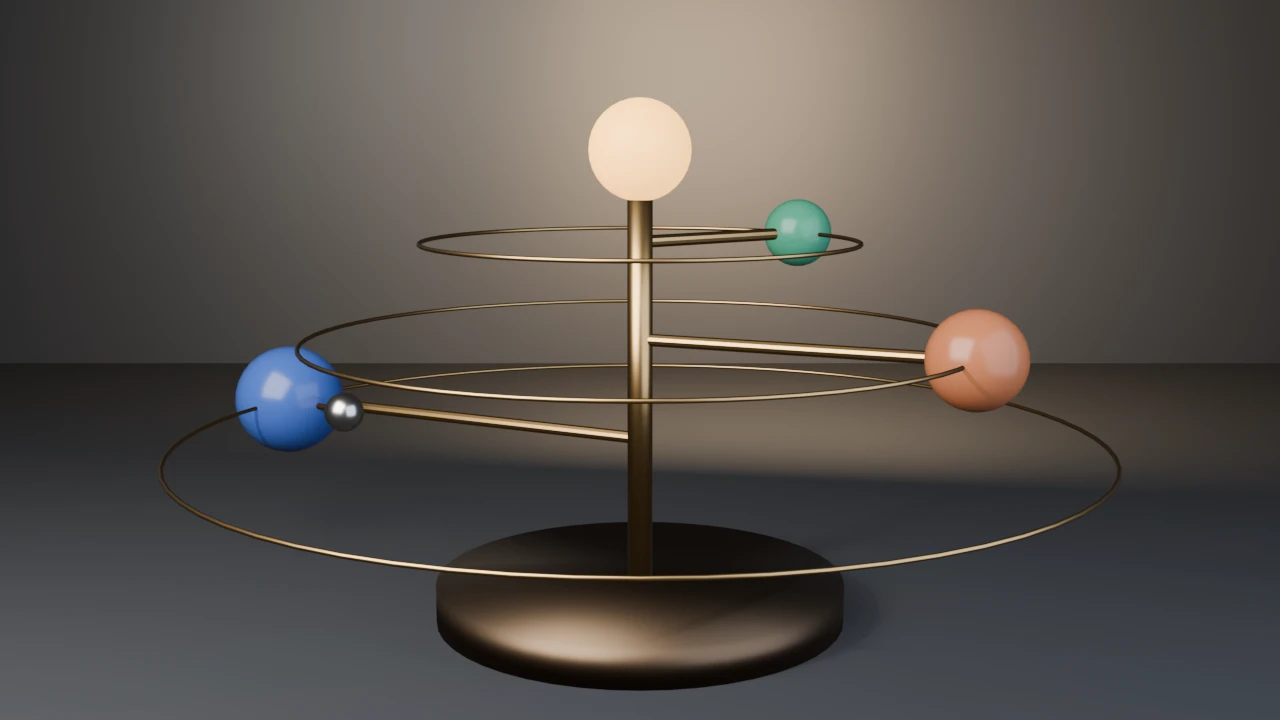
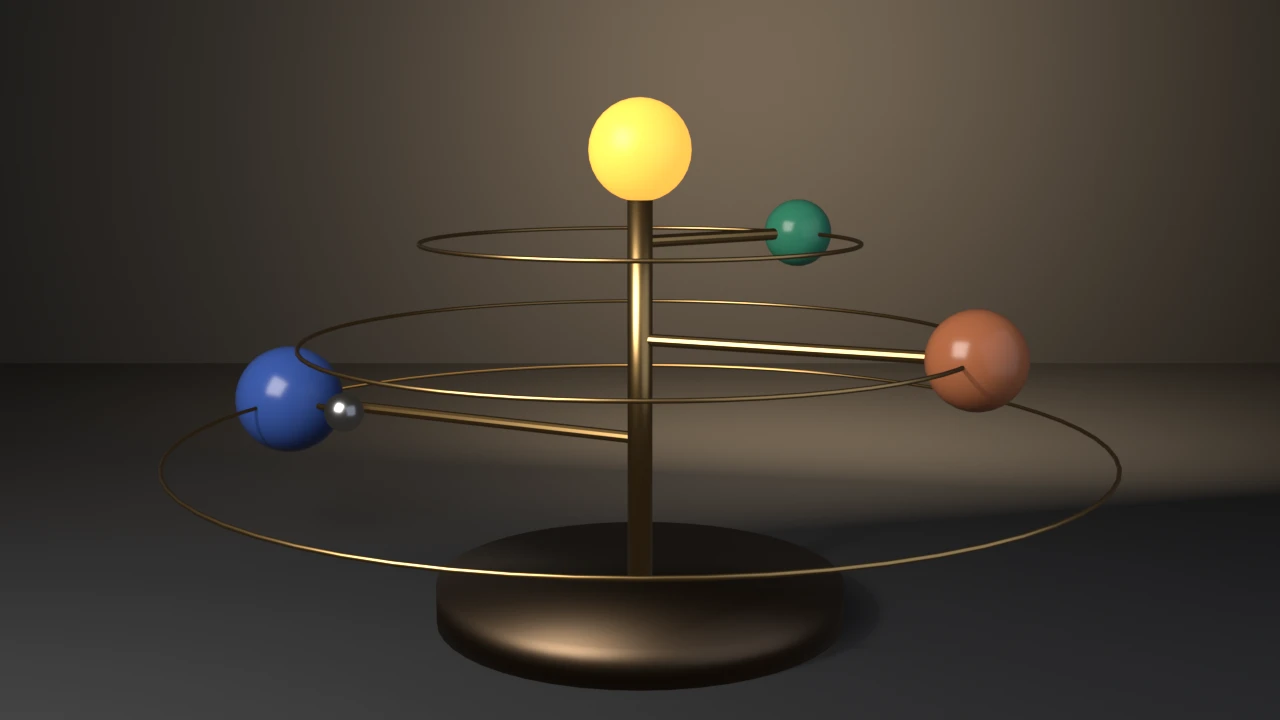
fix: parent-inverse-orrery presentation, Standard view, house light, framing gate
Render path only: Standard view transform (AgX turned the sun into a peach
bulb), house lighting that brings mean luma from 0.33 into the calibration
band, a 60 m stage, and a framing gate the render never had. Contract and
exit codes unchanged on 4.5.11, 5.1.2 and 5.2.1. Also regenerates the index.

diff --git a/docs/gallery/parent-inverse-orrery/index.html b/docs/gallery/parent-inverse-orrery/index.html
@@ -16,13 +16,13 @@
   <meta property="og:image" content="https://tmhsdigital.github.io/Blender-Developer-Tools/gallery/assets/parent-inverse-orrery-hero.webp" />
   <meta property="og:image:width" content="1280" />
   <meta property="og:image:height" content="720" />
-  <meta property="og:image:alt" content="A brass orrery: a pale central sun on a stand with three planets on arms and orbit rings." />
+  <meta property="og:image:alt" content="A brass orrery: a glowing yellow sun on a stand with blue, green and orange planets on arms, orbit rings and a silver moon." />
   <meta property="og:site_name" content="Blender Developer Tools" />
   <meta name="twitter:card" content="summary_large_image" />
   <meta name="twitter:title" content="parent-inverse-orrery — Examples — Blender Developer Tools" />
   <meta name="twitter:description" content="Data-API parenting for a brass orrery — the keep-world idiom (child.parent = pivot; child.matrix_parent_inverse = pivot.matrix_world.inverted()) carrying arms, planets, and a two-level moon through spinning pivots." />
   <meta name="twitter:image" content="https://tmhsdigital.github.io/Blender-Developer-Tools/gallery/assets/parent-inverse-orrery-hero.webp" />
-  <meta name="twitter:image:alt" content="A brass orrery: a pale central sun on a stand with three planets on arms and orbit rings." />
+  <meta name="twitter:image:alt" content="A brass orrery: a glowing yellow sun on a stand with blue, green and orange planets on arms, orbit rings and a silver moon." />
   <style>
     /* fonts are deployed by the landing build (docs/fonts/) */
     @font-face { font-family: 'Barlow Condensed'; font-weight: 600; font-display: swap;
@@ -268,8 +268,8 @@
     <p>Data-API parenting for a brass orrery — the keep-world idiom (child.parent = pivot; child.matrix_parent_inverse = pivot.matrix_world.inverted()) carrying arms, planets, and a two-level moon through spinning pivots.</p>
   </header>
   <main id="main">
-    <button class="detail-hero" id="heroZoom" type="button" aria-label="View full size: A brass orrery: a pale central sun on a stand with three planets on arms and orbit rings.">
-      <img src="../assets/parent-inverse-orrery-hero.webp" alt="A brass orrery: a pale central sun on a stand with three planets on arms and orbit rings." width="1280" height="720" />
+    <button class="detail-hero" id="heroZoom" type="button" aria-label="View full size: A brass orrery: a glowing yellow sun on a stand with blue, green and orange planets on arms, orbit rings and a silver moon.">
+      <img src="../assets/parent-inverse-orrery-hero.webp" alt="A brass orrery: a glowing yellow sun on a stand with blue, green and orange planets on arms, orbit rings and a silver moon." width="1280" height="720" />
     </button>
     <p class="zoom-hint">Rendered headless by the example itself — click to zoom.</p>
     <div class="callout"><span class="tag">witnesses</span> Bare `.parent =` really does teleport the child; the idiom restores world position exactly; matrix_world stays stale until view_layer.update(); every orbit lands on its closed form.</div>
@@ -292,9 +292,11 @@ blender --background --python parent_inverse_orrery.py -- --skip-mpi
 # Also render a still (EEVEE on a GPU host; use --engine cycles on GPU-less hosts):
 blender --background --python parent_inverse_orrery.py -- --output orrery.png
 blender --background --python parent_inverse_orrery.py -- --output orrery.png --engine cycles</code></pre>
+<h2>Staging</h2>
+<p>Render path only; the rig the checks measure is untouched. The still uses the <code>Standard</code> view transform: under the default AgX the orange sun clipped to a peach-white bulb and read as a lamp. Lighting follows the house recipe (shaped key, faint fill, rim, warm wedge on the back wall) on the dark matte studio floor; the old rig (key 1500 W, fill 500 W, a glossy grey floor) lit the frame to mean luma 0.33, above the gallery&#x27;s calibration band. The render path gates framing through <code>gallery_framing.check_framing</code> (exit 10), which it never did before.</p>
 <h2>Exit codes</h2>
-<p>Per-script sequential checks. <code>9</code> is a valid check code; there is no rule against it.</p>
-<div class="table-wrap"><table><thead><tr><th scope="col">Code</th><th scope="col">Meaning</th></tr></thead><tbody><tr><td>0</td><td>Success</td></tr><tr><td>1</td><td>Uncaught exception (FATAL wrapper)</td></tr><tr><td>2</td><td>argparse / usage</td></tr><tr><td>3</td><td>Bare parenting did not jump</td></tr><tr><td>4</td><td>Keep-world idiom off</td></tr><tr><td>5</td><td>Stale <code>matrix_world</code> contract broken</td></tr><tr><td>6</td><td>Planet off closed-form orbit (<code>--skip-mpi</code> lands here)</td></tr><tr><td>7</td><td>Moon off closed-form orbit</td></tr><tr><td>8</td><td><code>--output</code> produced no file</td></tr></tbody></table></div>
+<p>Per-script sequential checks. <code>9</code> is a valid check code; there is no rule against it. <code>10</code> is the shared framing helper.</p>
+<div class="table-wrap"><table><thead><tr><th scope="col">Code</th><th scope="col">Meaning</th></tr></thead><tbody><tr><td>0</td><td>Success</td></tr><tr><td>1</td><td>Uncaught exception (FATAL wrapper)</td></tr><tr><td>2</td><td>argparse / usage</td></tr><tr><td>3</td><td>Bare parenting did not jump</td></tr><tr><td>4</td><td>Keep-world idiom off</td></tr><tr><td>5</td><td>Stale <code>matrix_world</code> contract broken</td></tr><tr><td>6</td><td>Planet off closed-form orbit (<code>--skip-mpi</code> lands here)</td></tr><tr><td>7</td><td>Moon off closed-form orbit</td></tr><tr><td>8</td><td><code>--output</code> produced no file</td></tr><tr><td>10</td><td>Gallery framing violation (render path only)</td></tr></tbody></table></div>
 <p>The <code>blender-smoke</code> workflow runs the check on Blender 5.2 LTS and 4.5 LTS (5.1 on the weekly cron, the <code>needs-5.1</code> PR label, or manual dispatch). Smoke does not pass <code>--output</code> or <code>--skip-mpi</code>.</p>
     </section>
     <section class="detail-section src">
@@ -333,6 +335,11 @@ check. Pass --output to also render a still:
 &quot;&quot;&quot;</span>
 <span class="k">import</span> bpy, bmesh, sys, os, math, argparse
 <span class="k">from</span> mathutils <span class="k">import</span> Vector, Matrix
+
+<span class="c"># Shared Layer 1 framing measurement (render path only) — see gallery_framing.py</span>
+sys.path.insert(<span class="n">0</span>, os.path.join(os.path.dirname(os.path.abspath(__file__)), os.pardir))
+sys.dont_write_bytecode = <span class="k">True</span>  <span class="c"># keep examples/__pycache__ out of the repo tree</span>
+<span class="k">import</span> gallery_framing
 
 <span class="c"># (name, orbit radius, arm height, orbit angle deg, sphere radius, color RGBA)</span>
 PLANETS = [
@@ -550,7 +557,9 @@ EPS = <span class="n">1e-5</span>
     scene = bpy.context.scene
     brass = principled(<span class="s">&quot;Brass&quot;</span>, (<span class="n">0.62</span>, <span class="n">0.40</span>, <span class="n">0.16</span>, <span class="n">1.0</span>), <span class="n">1.0</span>, <span class="n">0.32</span>)
     dark_bronze = principled(<span class="s">&quot;Bronze&quot;</span>, (<span class="n">0.16</span>, <span class="n">0.11</span>, <span class="n">0.07</span>, <span class="n">1.0</span>), <span class="n">1.0</span>, <span class="n">0.45</span>)
-    sun_mat = principled(<span class="s">&quot;SunGlow&quot;</span>, (<span class="n">1.0</span>, <span class="n">0.48</span>, <span class="n">0.10</span>, <span class="n">1.0</span>), <span class="n">0.0</span>, <span class="n">0.4</span>, emission=<span class="n">3.2</span>)
+    <span class="c"># At emission 3.2 the sun clipped to a peach-white bulb and read as a</span>
+    <span class="c"># lamp; a lower strength keeps it an orange star against the brass.</span>
+    sun_mat = principled(<span class="s">&quot;SunGlow&quot;</span>, (<span class="n">1.0</span>, <span class="n">0.42</span>, <span class="n">0.06</span>, <span class="n">1.0</span>), <span class="n">0.0</span>, <span class="n">0.4</span>, emission=<span class="n">1.3</span>)
     moon_mat = principled(<span class="s">&quot;MoonSilver&quot;</span>, (<span class="n">0.82</span>, <span class="n">0.84</span>, <span class="n">0.88</span>, <span class="n">1.0</span>), <span class="n">1.0</span>, <span class="n">0.25</span>)
 
     rig[<span class="s">&quot;sun&quot;</span>].data.materials.append(sun_mat)
@@ -572,11 +581,11 @@ EPS = <span class="n">1e-5</span>
     floor_me = bpy.data.meshes.new(<span class="s">&quot;Floor&quot;</span>)
     bm = bmesh.new()
     <span class="k">try</span>:
-        bmesh.ops.create_grid(bm, x_segments=<span class="n">1</span>, y_segments=<span class="n">1</span>, size=<span class="n">30.0</span>)
+        bmesh.ops.create_grid(bm, x_segments=<span class="n">1</span>, y_segments=<span class="n">1</span>, size=<span class="n">60.0</span>)
         bm.to_mesh(floor_me)
     <span class="k">finally</span>:
         bm.free()
-    fmat = principled(<span class="s">&quot;Studio&quot;</span>, (<span class="n">0.045</span>, <span class="n">0.05</span>, <span class="n">0.06</span>, <span class="n">1.0</span>), <span class="n">0.0</span>, <span class="n">0.42</span>)
+    fmat = principled(<span class="s">&quot;Studio&quot;</span>, (<span class="n">0.03</span>, <span class="n">0.032</span>, <span class="n">0.037</span>, <span class="n">1.0</span>), <span class="n">0.0</span>, <span class="n">0.7</span>)
     floor_me.materials.append(fmat)
     floor = bpy.data.objects.new(<span class="s">&quot;Floor&quot;</span>, floor_me)
     scene.collection.objects.link(floor)
@@ -600,9 +609,13 @@ EPS = <span class="n">1e-5</span>
         ob.rotation_euler = tuple(math.radians(a) <span class="k">for</span> a <span class="k">in</span> rot)
         scene.collection.objects.link(ob)
 
-    light(<span class="s">&quot;Key&quot;</span>, (-<span class="n">4.0</span>, -<span class="n">4.5</span>, <span class="n">5.0</span>), <span class="n">1500.0</span>, <span class="n">6.5</span>, (<span class="n">1.0</span>, <span class="n">0.94</span>, <span class="n">0.86</span>), (<span class="n">46</span>, <span class="n">0</span>, -<span class="n">40</span>))
-    light(<span class="s">&quot;Fill&quot;</span>, (<span class="n">4.8</span>, -<span class="n">3.8</span>, <span class="n">2.6</span>), <span class="n">500.0</span>, <span class="n">8.0</span>, (<span class="n">0.75</span>, <span class="n">0.83</span>, <span class="n">1.0</span>), (<span class="n">62</span>, <span class="n">0</span>, <span class="n">48</span>))
-    light(<span class="s">&quot;Rim&quot;</span>, (<span class="n">1.0</span>, <span class="n">4.5</span>, <span class="n">3.4</span>), <span class="n">900.0</span>, <span class="n">4.0</span>, (<span class="n">1.0</span>, <span class="n">0.68</span>, <span class="n">0.38</span>), (-<span class="n">70</span>, <span class="n">0</span>, <span class="n">170</span>))
+    <span class="c"># House recipe (docs/VISUAL-STYLE.md): shaped warm key, faint cool fill,</span>
+    <span class="c"># rim, warm wedge on the back wall. The old rig (key 1500, fill 500) lit</span>
+    <span class="c"># the stage to mean luma 0.33, above the calibration set&#x27;s band.</span>
+    light(<span class="s">&quot;Key&quot;</span>, (-<span class="n">4.0</span>, -<span class="n">4.5</span>, <span class="n">5.0</span>), <span class="n">620.0</span>, <span class="n">4.5</span>, (<span class="n">1.0</span>, <span class="n">0.94</span>, <span class="n">0.86</span>), (<span class="n">46</span>, <span class="n">0</span>, -<span class="n">40</span>))
+    light(<span class="s">&quot;Fill&quot;</span>, (<span class="n">4.8</span>, -<span class="n">3.8</span>, <span class="n">2.6</span>), <span class="n">120.0</span>, <span class="n">8.0</span>, (<span class="n">0.75</span>, <span class="n">0.83</span>, <span class="n">1.0</span>), (<span class="n">62</span>, <span class="n">0</span>, <span class="n">48</span>))
+    light(<span class="s">&quot;Rim&quot;</span>, (<span class="n">1.0</span>, <span class="n">4.5</span>, <span class="n">3.4</span>), <span class="n">420.0</span>, <span class="n">4.0</span>, (<span class="n">1.0</span>, <span class="n">0.68</span>, <span class="n">0.38</span>), (-<span class="n">70</span>, <span class="n">0</span>, <span class="n">170</span>))
+    light(<span class="s">&quot;Wedge&quot;</span>, (<span class="n">2.5</span>, <span class="n">3.5</span>, <span class="n">4.2</span>), <span class="n">420.0</span>, <span class="n">5.5</span>, (<span class="n">1.0</span>, <span class="n">0.76</span>, <span class="n">0.5</span>), (-<span class="n">72</span>, <span class="n">0</span>, <span class="n">195</span>))
 
     cam_data = bpy.data.cameras.new(<span class="s">&quot;Cam&quot;</span>)
     cam_data.lens = <span class="n">40.0</span>
@@ -624,8 +637,20 @@ EPS = <span class="n">1e-5</span>
     scene.render.resolution_y = <span class="n">720</span>
     scene.render.image_settings.file_format = <span class="s">&#x27;PNG&#x27;</span>
     scene.render.filepath = path
+    <span class="c"># AgX washes the orange sun and the planet colours toward pastel</span>
+    <span class="c"># (docs/VISUAL-STYLE.md); the sun read as a peach bulb under it.</span>
+    scene.view_settings.view_transform = <span class="s">&#x27;Standard&#x27;</span>
+    <span class="c"># Layer 1 framing gate (silhouette matte) — exit 10 on violation, before</span>
+    <span class="c"># the beauty render so a defective composition ships no artifact.</span>
+    orrery = [o <span class="k">for</span> o <span class="k">in</span> scene.objects
+              <span class="k">if</span> o.type <span class="k">in</span> {<span class="s">&#x27;MESH&#x27;</span>, <span class="s">&#x27;CURVE&#x27;</span>} <span class="k">and</span> o.name <span class="k">not</span> <span class="k">in</span> {<span class="s">&quot;Floor&quot;</span>, <span class="s">&quot;Wall&quot;</span>}]
+    fcode = gallery_framing.check_framing(
+        scene, cam, hero=orrery, elements=orrery, stage=[floor, wall],
+    )
+    <span class="k">if</span> fcode:
+        <span class="k">return</span> fcode
     bpy.ops.render.render(write_still=<span class="k">True</span>)
-    <span class="k">return</span> os.path.exists(path) <span class="k">and</span> os.path.getsize(path) &gt; <span class="n">0</span>
+    <span class="k">return</span> <span class="n">0</span> <span class="k">if</span> os.path.exists(path) <span class="k">and</span> os.path.getsize(path) &gt; <span class="n">0</span> <span class="k">else</span> <span class="n">8</span>
 
 
 <span class="k">def</span> main():
@@ -644,9 +669,11 @@ EPS = <span class="n">1e-5</span>
         <span class="k">return</span> code
 
     <span class="k">if</span> args.output:
-        <span class="k">if</span> <span class="k">not</span> render_still(rig, os.path.abspath(args.output), args.engine):
+        rcode = render_still(rig, os.path.abspath(args.output), args.engine)
+        <span class="k">if</span> rcode == <span class="n">8</span>:
             print(<span class="s">&quot;ERROR: render produced no file&quot;</span>, file=sys.stderr)
-            <span class="k">return</span> <span class="n">8</span>
+        <span class="k">if</span> rcode:
+            <span class="k">return</span> rcode
         print(<span class="s">f&quot;</span><span class="s">rendered still </span>{args.output}<span class="s">&quot;</span>)
 
     print(<span class="s">&quot;parent-inverse-orrery OK&quot;</span>)
@@ -663,7 +690,7 @@ EPS = <span class="n">1e-5</span>
   </main>
   <dialog class="lightbox" id="lightbox" aria-label="Full-size render">
     <button class="lightbox-close" type="button" autofocus>Close</button>
-    <img src="../assets/parent-inverse-orrery-hero.webp" alt="A brass orrery: a pale central sun on a stand with three planets on arms and orbit rings." />
+    <img src="../assets/parent-inverse-orrery-hero.webp" alt="A brass orrery: a glowing yellow sun on a stand with blue, green and orange planets on arms, orbit rings and a silver moon." />
   </dialog>
   <footer>
     <div class="statusbar">

diff --git a/docs/gallery/index.html b/docs/gallery/index.html
@@ -519,7 +519,7 @@
       </article>
       <article class="card" data-tags="objects transforms">
         <a class="card-media" href="parent-inverse-orrery/" tabindex="-1" aria-hidden="true">
-          <img src="assets/parent-inverse-orrery-hero.webp" alt="A brass orrery: a pale central sun on a stand with three planets on arms and orbit rings." loading="lazy" decoding="async" />
+          <img src="assets/parent-inverse-orrery-hero.webp" alt="A brass orrery: a glowing yellow sun on a stand with blue, green and orange planets on arms, orbit rings and a silver moon." loading="lazy" decoding="async" />
         </a>
         <div class="card-body">
           <h2><a href="parent-inverse-orrery/">parent-inverse-orrery</a></h2>
@@ -959,12 +959,12 @@
       </article>
       <article class="card" data-tags="mesh export showcase">
         <a class="card-media" href="street-lantern/" tabindex="-1" aria-hidden="true">
-          <img src="assets/street-lantern-hero.webp" alt="A black iron street lamp post with an arm holding a hanging lantern with glowing panes." loading="lazy" decoding="async" />
+          <img src="assets/street-lantern-hero.webp" alt="A black iron street lamp post with aged brass collars and a knee brace under the arm, holding a hanging lantern with glowing panes." loading="lazy" decoding="async" />
         </a>
         <div class="card-body">
           <h2><a href="street-lantern/">street-lantern</a></h2>
           <p class="teaches">A procedural hanging street lantern through UVs, bake, LOD, collider, and Unity glTF, asserting recomputed budgets rather than an API contract.</p>
-          <p class="witnesses"><span class="tag">witnesses</span> Recomputed: 3338 tris, three materials with 1530 metal, 24 glass and 209 brass faces, UVs in 0..1 with zero AABB overlap, outer AABB 0.300×0.786×1.287 m, zmin 0, hygiene 0, brace BVH gap 0, hanger-roof gap −1 mm, post 0.100×1.120 m plumb 0, LOD ratios in band (5.2 COLLAPSE 2 tris leaner on LOD2), convex collider 78 tris, non-empty glTF. --skip-decimate exits 9; --stray-vert 15; --lift-z 16; --float-brace 17; --sink-arm 18; --rake-post 19.</p>
+          <p class="witnesses"><span class="tag">witnesses</span> Recomputed: 3338 tris, three materials with 1530 metal, 24 glass and 209 brass faces, UVs in 0..1 with zero AABB overlap, outer AABB 0.300×0.786×1.287 m, zmin 0, hygiene 0, brace BVH gap 0, brace ends 13 mm into the post and the arm, hanger-roof gap −1 mm, post 0.100×1.120 m plumb 0, LOD ratios in band (5.2 COLLAPSE 2 tris leaner on LOD2), convex collider 78 tris, non-empty glTF. --skip-decimate exits 9; --stray-vert 15; --lift-z 16; --float-brace 17; --sink-arm 18; --rake-post 19; --shallow-brace 20.</p>
           <a class="card-link" href="street-lantern/">View showcase piece<span class="sr-only"> street-lantern</span> <span aria-hidden="true">&rarr;</span></a>
         </div>
       </article>
@@ -1003,12 +1003,12 @@
       </article>
       <article class="card" data-tags="mesh export showcase">
         <a class="card-media" href="watchtower/" tabindex="-1" aria-hidden="true">
-          <img src="assets/watchtower-hero.webp" alt="A timber watchtower on braced legs with a ladder, railed platform and a pale shingled pyramid roof." loading="lazy" decoding="async" />
+          <img src="assets/watchtower-hero.webp" alt="A grained timber watchtower on braced legs with a ladder, a railed platform on deck girts, rusted iron collars and a shingled pyramid roof." loading="lazy" decoding="async" />
         </a>
         <div class="card-body">
           <h2><a href="watchtower/">watchtower</a></h2>
           <p class="teaches">A procedural timber watchtower through UVs, bake, LOD, collider, and Unity glTF, asserting recomputed budgets rather than an API contract.</p>
-          <p class="witnesses"><span class="tag">witnesses</span> Recomputed: 6408 tris, three materials with 300 metal and 126 roof faces, UVs in 0..1 with zero AABB overlap, outer AABB 1.594×1.594×2.973 m, grounded zmin, 4 iron shoes, rail engage 18 mm, collar standoff 2 mm, post plumb 0, LOD ratios in band (5.2 COLLAPSE leaner on LOD2), convex collider 150 tris, non-empty glTF. Hygiene all zero. --skip-decimate exits 9; --stray-vert 15; --lift-z/--short-shoes 16; --short-rails 17; --float-band 18; --rake-posts 19.</p>
+          <p class="witnesses"><span class="tag">witnesses</span> Recomputed: 6840 tris, three materials with 300 metal and 126 roof faces, UVs in 0..1 with zero AABB overlap, outer AABB 1.594×1.594×2.973 m, grounded zmin, 4 iron shoes, rail engage 18 mm, all four side rails tenoned at both ends, both joists bearing 31 mm into deck girts, collar standoff 2 mm, post plumb 0, LOD ratios in band (5.2 COLLAPSE leaner on LOD2), convex collider 150 tris, non-empty glTF. Hygiene all zero. --skip-decimate exits 9; --stray-vert 15; --lift-z/--short-shoes 16; --short-rails/--open-sides/--short-joists 17; --float-band 18; --rake-posts 19.</p>
           <a class="card-link" href="watchtower/">View showcase piece<span class="sr-only"> watchtower</span> <span aria-hidden="true">&rarr;</span></a>
         </div>
       </article>

diff --git a/examples/parent-inverse-orrery/parent_inverse_orrery.py b/examples/parent-inverse-orrery/parent_inverse_orrery.py
@@ -29,6 +29,11 @@ check. Pass --output to also render a still:
 import bpy, bmesh, sys, os, math, argparse
 from mathutils import Vector, Matrix
 
+# Shared Layer 1 framing measurement (render path only) — see gallery_framing.py
+sys.path.insert(0, os.path.join(os.path.dirname(os.path.abspath(__file__)), os.pardir))
+sys.dont_write_bytecode = True  # keep examples/__pycache__ out of the repo tree
+import gallery_framing
+
 # (name, orbit radius, arm height, orbit angle deg, sphere radius, color RGBA)
 PLANETS = [
     ("Lapis", 2.55, 1.02, 152.0, 0.34, (0.04, 0.10, 0.42, 1.0)),
@@ -245,7 +250,9 @@ def render_still(rig, path, engine):
     scene = bpy.context.scene
     brass = principled("Brass", (0.62, 0.40, 0.16, 1.0), 1.0, 0.32)
     dark_bronze = principled("Bronze", (0.16, 0.11, 0.07, 1.0), 1.0, 0.45)
-    sun_mat = principled("SunGlow", (1.0, 0.48, 0.10, 1.0), 0.0, 0.4, emission=3.2)
+    # At emission 3.2 the sun clipped to a peach-white bulb and read as a
+    # lamp; a lower strength keeps it an orange star against the brass.
+    sun_mat = principled("SunGlow", (1.0, 0.42, 0.06, 1.0), 0.0, 0.4, emission=1.3)
     moon_mat = principled("MoonSilver", (0.82, 0.84, 0.88, 1.0), 1.0, 0.25)
 
     rig["sun"].data.materials.append(sun_mat)
@@ -267,11 +274,11 @@ def render_still(rig, path, engine):
     floor_me = bpy.data.meshes.new("Floor")
     bm = bmesh.new()
     try:
-        bmesh.ops.create_grid(bm, x_segments=1, y_segments=1, size=30.0)
+        bmesh.ops.create_grid(bm, x_segments=1, y_segments=1, size=60.0)
         bm.to_mesh(floor_me)
     finally:
         bm.free()
-    fmat = principled("Studio", (0.045, 0.05, 0.06, 1.0), 0.0, 0.42)
+    fmat = principled("Studio", (0.03, 0.032, 0.037, 1.0), 0.0, 0.7)
     floor_me.materials.append(fmat)
     floor = bpy.data.objects.new("Floor", floor_me)
     scene.collection.objects.link(floor)
@@ -295,9 +302,13 @@ def render_still(rig, path, engine):
         ob.rotation_euler = tuple(math.radians(a) for a in rot)
         scene.collection.objects.link(ob)
 
-    light("Key", (-4.0, -4.5, 5.0), 1500.0, 6.5, (1.0, 0.94, 0.86), (46, 0, -40))
-    light("Fill", (4.8, -3.8, 2.6), 500.0, 8.0, (0.75, 0.83, 1.0), (62, 0, 48))
-    light("Rim", (1.0, 4.5, 3.4), 900.0, 4.0, (1.0, 0.68, 0.38), (-70, 0, 170))
+    # House recipe (docs/VISUAL-STYLE.md): shaped warm key, faint cool fill,
+    # rim, warm wedge on the back wall. The old rig (key 1500, fill 500) lit
+    # the stage to mean luma 0.33, above the calibration set's band.
+    light("Key", (-4.0, -4.5, 5.0), 620.0, 4.5, (1.0, 0.94, 0.86), (46, 0, -40))
+    light("Fill", (4.8, -3.8, 2.6), 120.0, 8.0, (0.75, 0.83, 1.0), (62, 0, 48))
+    light("Rim", (1.0, 4.5, 3.4), 420.0, 4.0, (1.0, 0.68, 0.38), (-70, 0, 170))
+    light("Wedge", (2.5, 3.5, 4.2), 420.0, 5.5, (1.0, 0.76, 0.5), (-72, 0, 195))
 
     cam_data = bpy.data.cameras.new("Cam")
     cam_data.lens = 40.0
@@ -319,8 +330,20 @@ def render_still(rig, path, engine):
     scene.render.resolution_y = 720
     scene.render.image_settings.file_format = 'PNG'
     scene.render.filepath = path
+    # AgX washes the orange sun and the planet colours toward pastel
+    # (docs/VISUAL-STYLE.md); the sun read as a peach bulb under it.
+    scene.view_settings.view_transform = 'Standard'
+    # Layer 1 framing gate (silhouette matte) — exit 10 on violation, before
+    # the beauty render so a defective composition ships no artifact.
+    orrery = [o for o in scene.objects
+              if o.type in {'MESH', 'CURVE'} and o.name not in {"Floor", "Wall"}]
+    fcode = gallery_framing.check_framing(
+        scene, cam, hero=orrery, elements=orrery, stage=[floor, wall],
+    )
+    if fcode:
+        return fcode
     bpy.ops.render.render(write_still=True)
-    return os.path.exists(path) and os.path.getsize(path) > 0
+    return 0 if os.path.exists(path) and os.path.getsize(path) > 0 else 8
 
 
 def main():
@@ -339,9 +362,11 @@ def main():
         return code
 
     if args.output:
-        if not render_still(rig, os.path.abspath(args.output), args.engine):
+        rcode = render_still(rig, os.path.abspath(args.output), args.engine)
+        if rcode == 8:
             print("ERROR: render produced no file", file=sys.stderr)
-            return 8
+        if rcode:
+            return rcode
         print(f"rendered still {args.output}")
 
     print("parent-inverse-orrery OK")

diff --git a/README.md b/README.md
@@ -203,7 +203,7 @@ or expand a category below.
 
 <p align="center">
   <a href="examples/grease-pencil-rosette/"><img src="examples/grease-pencil-rosette/preview.webp" width="24%" alt="Grease pencil rosette: five nested neon rose curves glowing against a dark studio wall" /></a>
-  <a href="examples/parent-inverse-orrery/"><img src="examples/parent-inverse-orrery/preview.webp" width="24%" alt="Parent inverse orrery: a brass tabletop orrery with a glowing sun and three planets" /></a>
+  <a href="examples/parent-inverse-orrery/"><img src="examples/parent-inverse-orrery/preview.webp" width="24%" alt="Parent inverse orrery: a brass tabletop orrery with a glowing yellow sun and three planets" /></a>
   <a href="examples/compositor-glare/"><img src="examples/compositor-glare/preview.webp" width="24%" alt="Compositor glare: three neon rings with colored bloom halos" /></a>
   <a href="examples/image-pixels-testcard/"><img src="examples/image-pixels-testcard/preview.webp" width="24%" alt="Image pixels testcard: a studio monitor showing a procedural broadcast test card" /></a>
 </p>
@@ -706,7 +706,7 @@ ring pinned and the tip deflected. A straight tube is a failure.
 </tr>
 <tr>
 <td width="46%" valign="middle">
-<a href="examples/parent-inverse-orrery/"><img src="examples/parent-inverse-orrery/preview.webp" alt="Parent inverse orrery: a brass tabletop orrery with a glowing sun, three planets on pivot arms inside brass orbit rings, and a silver moon, on a dark studio floor" /></a>
+<a href="examples/parent-inverse-orrery/"><img src="examples/parent-inverse-orrery/preview.webp" alt="Parent inverse orrery: a brass tabletop orrery with a glowing yellow sun, three planets on pivot arms inside brass orbit rings, and a silver moon, on a dark studio floor" /></a>
 </td>
 <td valign="middle">
 

diff --git a/examples/parent-inverse-orrery/README.md b/examples/parent-inverse-orrery/README.md
@@ -32,10 +32,21 @@ blender --background --python parent_inverse_orrery.py -- --output orrery.png
 blender --background --python parent_inverse_orrery.py -- --output orrery.png --engine cycles
 ```
 
+## Staging
+
+Render path only; the rig the checks measure is untouched. The still
+uses the `Standard` view transform: under the default AgX the orange sun
+clipped to a peach-white bulb and read as a lamp. Lighting follows the
+house recipe (shaped key, faint fill, rim, warm wedge on the back wall)
+on the dark matte studio floor; the old rig (key 1500 W, fill 500 W, a
+glossy grey floor) lit the frame to mean luma 0.33, above the gallery's
+calibration band. The render path gates framing through
+`gallery_framing.check_framing` (exit 10), which it never did before.
+
 ## Exit codes
 
 Per-script sequential checks. `9` is a valid check code; there is no rule
-against it.
+against it. `10` is the shared framing helper.
 
 | Code | Meaning |
 | --- | --- |
@@ -48,6 +59,7 @@ against it.
 | 6 | Planet off closed-form orbit (`--skip-mpi` lands here) |
 | 7 | Moon off closed-form orbit |
 | 8 | `--output` produced no file |
+| 10 | Gallery framing violation (render path only) |
 
 The `blender-smoke` workflow runs the check on Blender 5.2 LTS and 4.5 LTS
 (5.1 on the weekly cron, the `needs-5.1` PR label, or manual dispatch).
